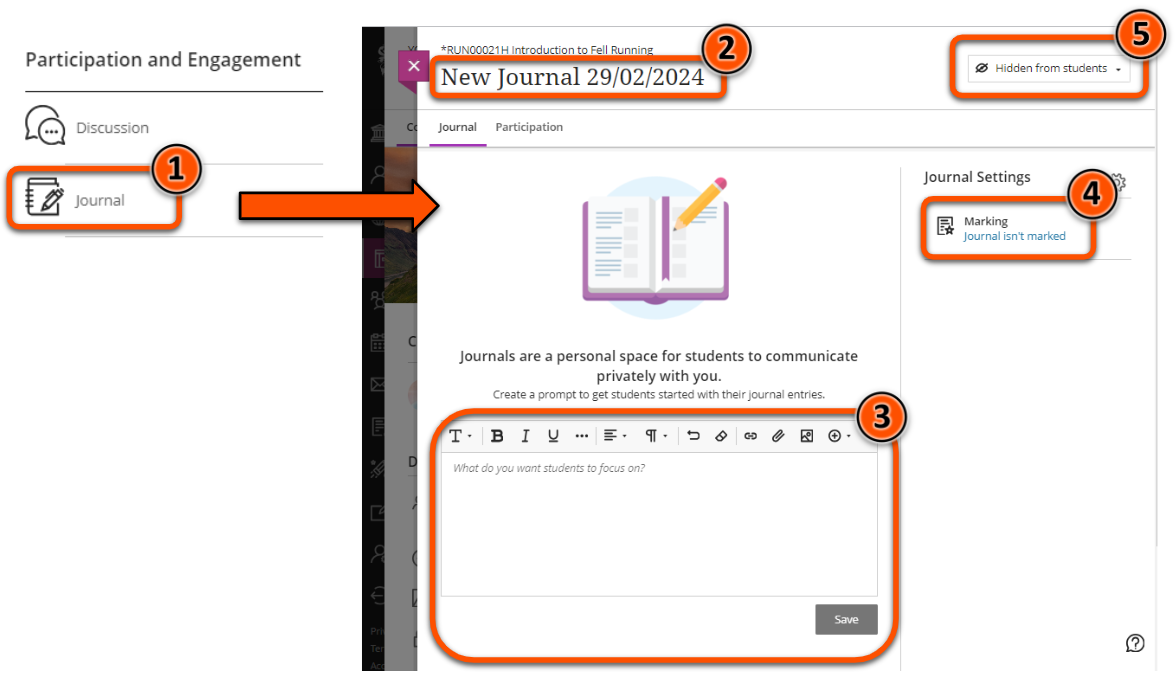
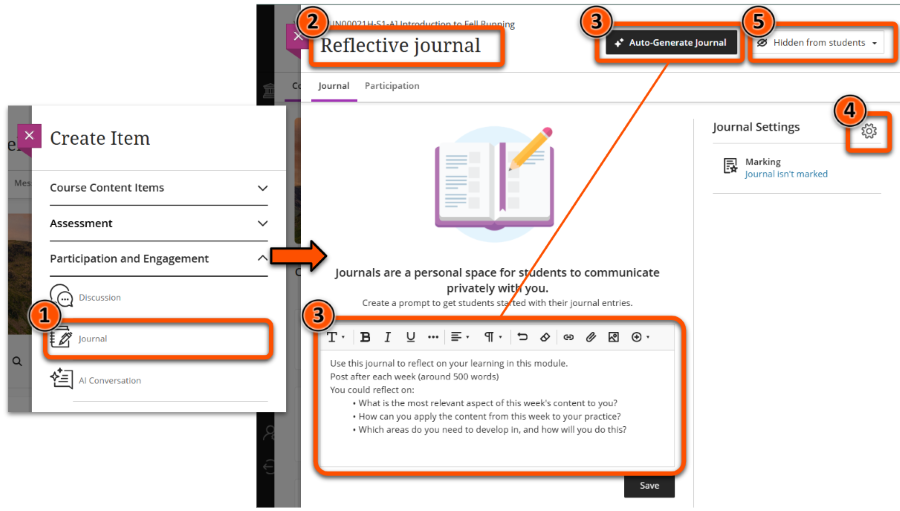
Discussion/Journal add AIDA info

Changed region(s): [[0.0, 0.0, 1.0, 0.998], [0.6533, 0.2935, 0.6844, 0.3523], [0.9644, 0.9393, 0.9956, 0.9687]]

diff --git a/docs/ultra/journal.md b/docs/ultra/journal.md
@@ -30,31 +30,50 @@ Journals can be useful in a variety of situations:
 - non-anonymous formative/summative assessment tasks
 - student-directed or teacher-directed entries
 
+## Journal location
+Depending on your intended use case, consider where students would expect the Journal to appear:
+
+<div markdown class="grid cards">
+
+-   **With module materials**
+
+    ---
+
+    Journals used for informal reflection or project work may be best placed alongside the relevant module materials, or in a dedicated project area.
+
+-   **Assessment section**
+
+    --- 
+
+    Journals listed as either a formative or summative assessment in your module catalogue entry should appear in the Assessment section of the site. If desired, you can use a [Course Link](../ultra/course-links.md) to also be accessible through a weekly content folder.
+</div>
+
 ## Set up a Journal
 
-### Journal location
-Consider where students would expect the Journal to appear.
-
-#### With module materials
-Journals used for informal reflection or project work may be best placed alongside the relevant module materials, or in a dedicated project area.
-
-#### In the Assessment section
-Journals listed as either a formative or summative assessment in your module catalogue entry should appear in the Assessment section of the site. If you also want the Journal to be accessible through a weekly content folder, use a Course Link.
-
-### Create a Journal
-
-1. In the relevant location, click **Create** > **Journal**.
-2. Give the Journal a descriptive **name** at the top left.
-3. Add a **prompt** with instructions.
+1. In the relevant location, click **Create**, then **Journal**.
+2. Enter a **descriptive title**.
+3. Add a **prompt** with instructions into the text box, or click **Auto-generate Journal** to [use AI to generate a journal prompt](#generate-journal-prompts-with-ai).
 4. Choose whether the Journal is graded and adjust other settings as needed.
-5. Set the Journal as **Visible to students** or specify **Release conditions** in the top right.
+5. Set the Journal as **Visible to students** or specify **Release conditions**.
 
-![decorative](images/journal-create.png)
+![Reflective Journal with instructions on post requirements and suggested topics ](images/journal-create.png)
 
 This is demonstrated in the video below, or for more detail see [Blackboard's guide to setting up Journals](https://help.blackboard.com/Learn/Instructor/Ultra/Interact/Journals)
 
 <iframe width="560" height="315" src="https://www.youtube.com/embed/lk180brvk2c?si=D3JU-GJY7zBA5P4P" title="YouTube video player" frameborder="0" allow="accelerometer; autoplay; clipboard-write; encrypted-media; gyroscope; picture-in-picture; web-share" allowfullscreen></iframe>
-[Blackboard guide: Create a Journal in the Ultra Course View [YouTube]](https://youtu.be/lk180brvk2c?si=bfzUaZLJVsuDQqrA)
+</br>[Blackboard guide: Create a Journal in the Ultra Course View [YouTube]](https://youtu.be/lk180brvk2c?si=bfzUaZLJVsuDQqrA)
+
+## Generate Journal prompts with AI
+
+You can use the [AI Design Assistant Tool](../ultra/ai-da.md) to auto-generate Journal prompts based on your site content. 
+
+Prompts may be most useful for exploring ideas for assessments and project work, as tasks suggested are often more complex or time-consuming than appropriate for weekly or formative tasks.
+
+!!! ai "Using AI tools effectively"
+
+    AI-generated content is a **starting point** for your own content development rather than a finished product. You must always **carefully check** that output is accurate and appropriate for your intended use and adapt as needed.
+
+    See our [general guide to Artificial Intelligence tools](../other-tools/ai.md) for more details on using AI responsibly.
 
 ## Marking a Journal
 

diff --git a/docs/ultra/discussions.md b/docs/ultra/discussions.md
@@ -17,7 +17,7 @@ tags:
 2. Under **Participation and Engagement**, select **Discussion**.</br>
 ![Decorative](images/discussion-create.png)
 3. Enter a descriptive **discussion title** at the top left. 
-4. Enter instructions or an initial post in the text editor box and click **Save**, or select **Auto-generate discussion** to [use AI to generate a discussion prompt](../ultra/ai-da.md#task-prompts). This will also be shown to students as the item description on the course content page.
+4. Enter instructions or an initial post in the text editor box and click **Save**, or click **Auto-generate discussion** to [use AI to generate a discussion prompt](#generate-discussion-prompts-with-ai). This will also be shown to students as the item description on the course content page.
 </br>![Example initial post: What are the most important factors to consider when organising a fell race? Include at least two factors and respond to at least two of your peers.](images/discussion-initial-post.png)
 5. To [follow/subscribe to the discussion](#follow-subscribe-to-discussions), click the **Follow** bell icon adjacent to Discussion Topic (shown after a prompt is saved).
 6. Optionally, click the **cog icon** to open Settings, including:
@@ -30,6 +30,18 @@ tags:
 Watch a demonstration of creating a Discussion:
 <iframe width="560" height="315" src="https://www.youtube.com/embed/Q404ODzUS5w" title="Setting up discussions in Ultra" frameborder="0" allow="accelerometer; autoplay; clipboard-write; encrypted-media; gyroscope; picture-in-picture" allowfullscreen></iframe>
 [Setting up discussions in Ultra [YouTube]](https://youtu.be/Q404ODzUS5w)
+
+## Generate Discussion prompts with AI
+
+You can use the [AI Design Assistant Tool](../ultra/ai-da.md) to auto-generate Discussion prompts based on your site content. 
+
+Prompts may be most useful for exploring ideas for assessments and project work, as tasks suggested are often more complex or time-consuming than appropriate for weekly or formative tasks.
+
+!!! ai "Using AI tools effectively"
+
+    AI-generated content is a **starting point** for your own content development rather than a finished product. You must always **carefully check** that output is accurate and appropriate for your intended use and adapt as needed.
+
+    See our [general guide to Artificial Intelligence tools](../other-tools/ai.md) for more details on using AI responsibly.
 
 ## Access a discussion
 

diff --git a/docs/ultra/ai-da.md b/docs/ultra/ai-da.md
@@ -61,7 +61,7 @@ AI-DA can generate prompts for **Discussions**, **Assignments** and **Journals**
 
 !!! ai "Using the task prompt generators effectively"
 
-    Task prompts may be most useful for exploring ideas for assessments and project work, as tasks suggested are often more in-depth or time-consuming than appropriate for weekly or formative tasks.
+    Task prompts may be most useful for exploring ideas for assessments and project work, as tasks suggested are often more complex or time-consuming than appropriate for weekly or formative tasks.
 
 Prompts can be aligned to **cognitive levels** based on Bloom's Taxonomy:
 
